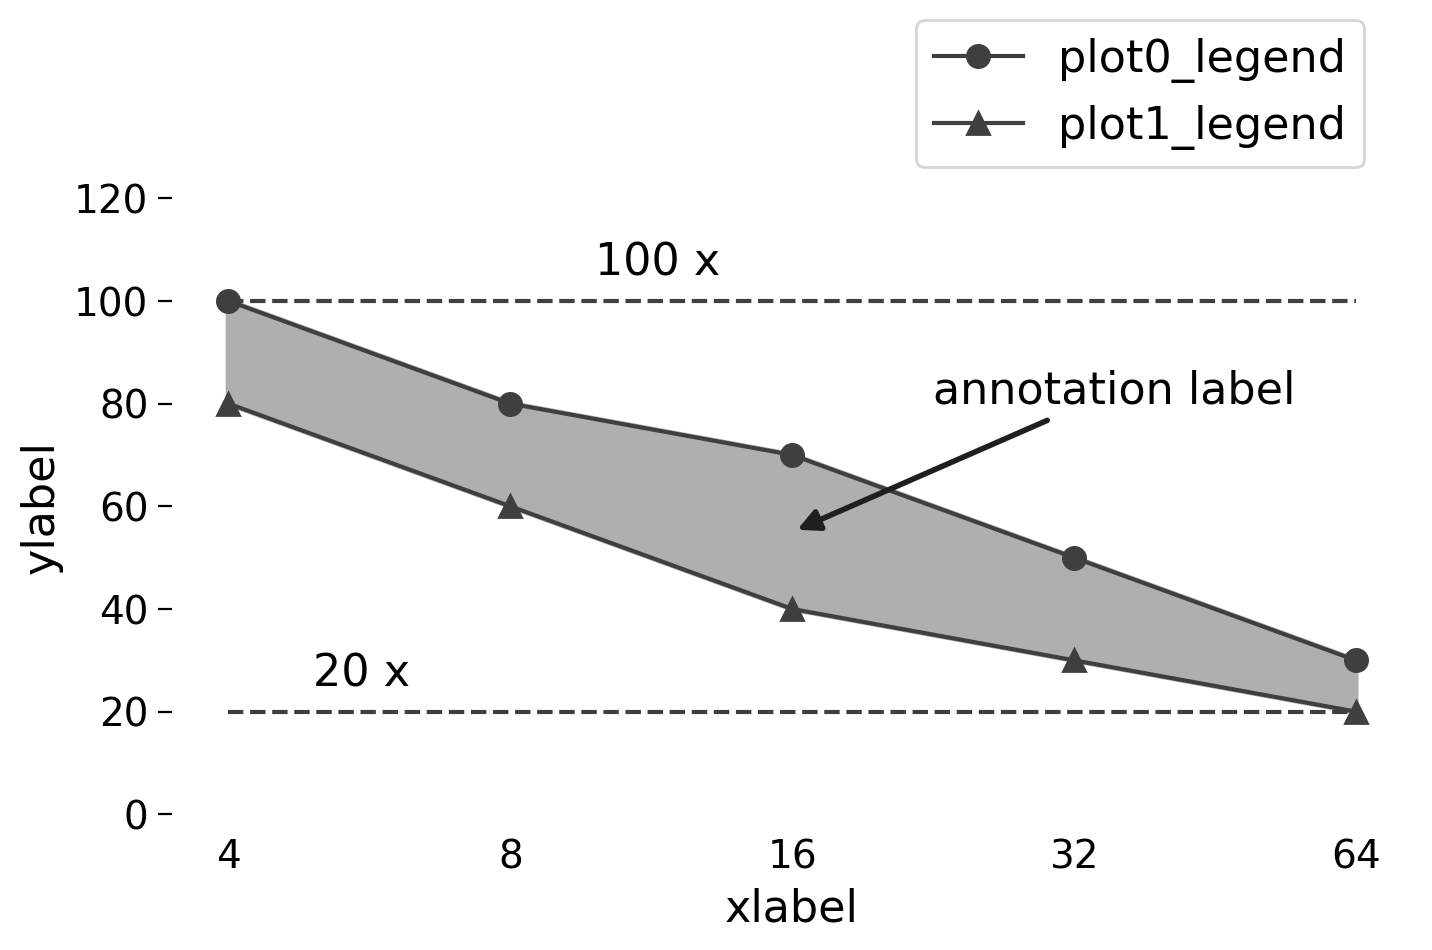
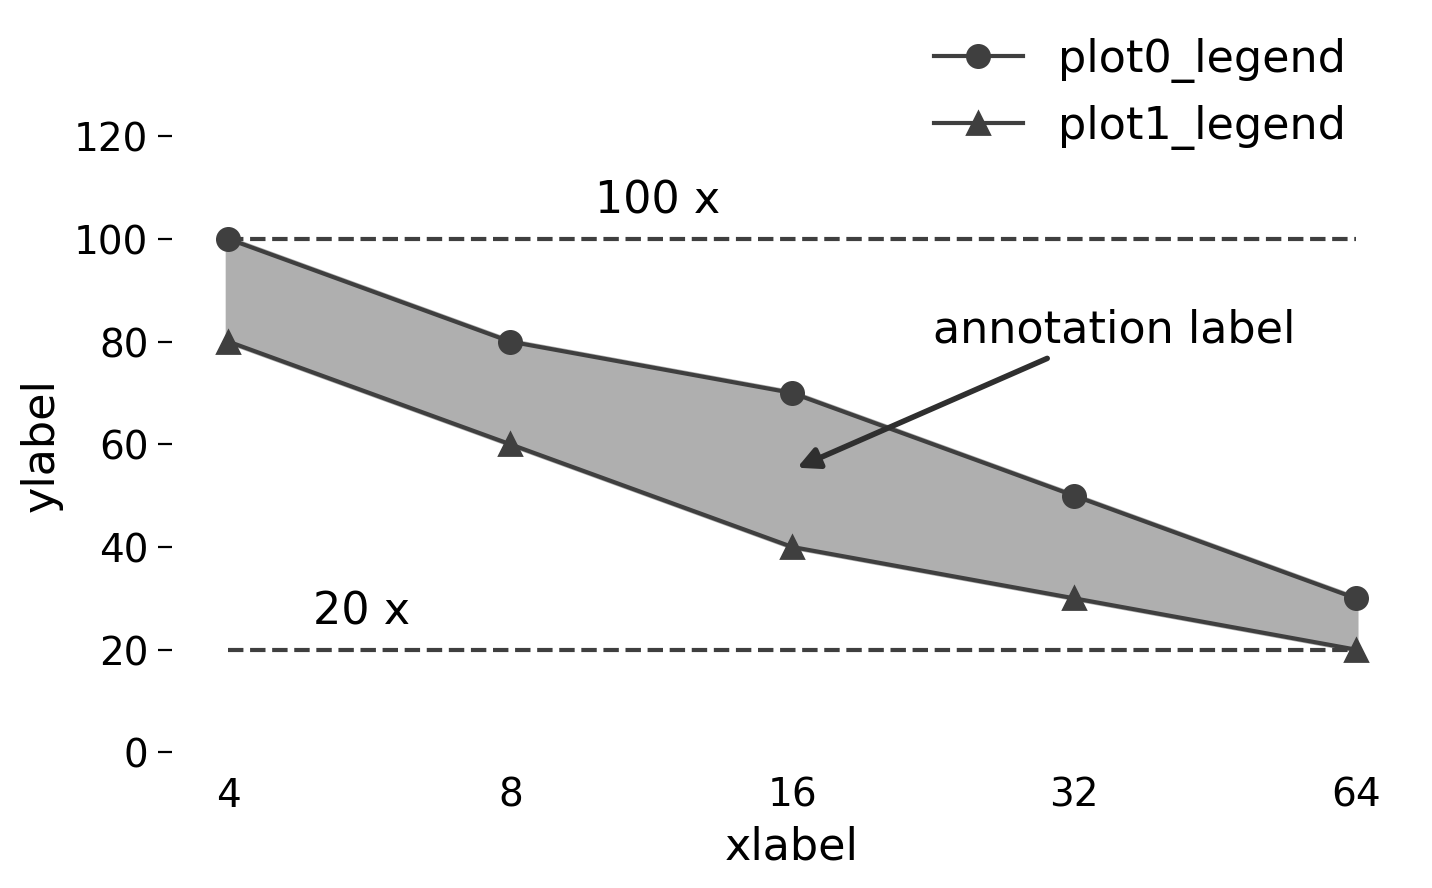
polish

diff --git a/plot_fill/plot_fill.py b/plot_fill/plot_fill.py
@@ -31,9 +31,9 @@ if __name__ == "__main__":
     ax.hlines(data_y_plot0[0], "4", "64", color='#3F3F3F', linestyles='dashed')
     ax.text(1.3, data_y_plot0[0] + 5, "{} x".format(data_y_plot0[0]), fontsize=text_font)
 
-    ax.annotate("annotation label", xy=(2, 55), xytext=(2.5, 80), arrowprops={"arrowstyle": '-|>', 'color': '#1f1f1f', 'linewidth': 2}, fontsize=text_font)
+    ax.annotate("annotation label", xy=(2, 55), xytext=(2.5, 80), arrowprops={"arrowstyle": '-|>', 'color': "#2f2f2f", 'linewidth': 2}, fontsize=text_font)
 
-    ax.legend([plot0[0], plot1[0]], ["plot0_legend", "plot1_legend"], loc=(0.6, 1.05), fontsize=label_font)
+    ax.legend([plot0[0], plot1[0]], ["plot0_legend", "plot1_legend"], loc=(0.6, 0.95), fontsize=label_font, frameon=False)
 
     ax.tick_params(length=5, top=False, bottom=False, left=True, right=False, labelleft=True, labelsize=tick_font)
     ax.get_xaxis().set_visible(True)
